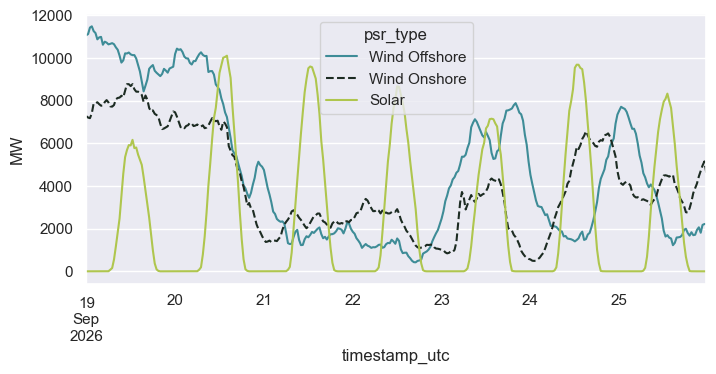
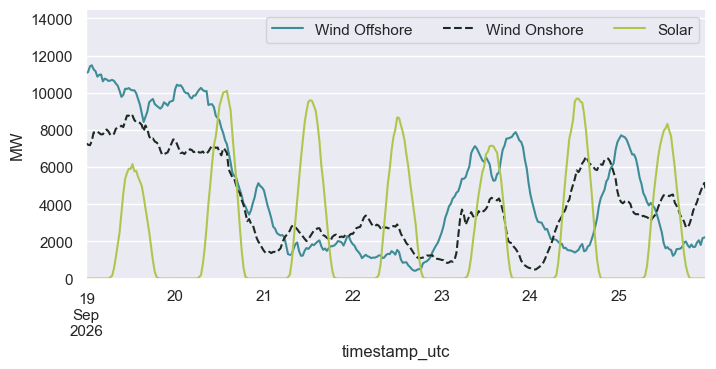
wip(p26): Elexon batch checkpoint, all agents idle

diff --git a/vault/elexon/windfor.md b/vault/elexon/windfor.md
@@ -88,7 +88,7 @@ page:
         df = data.elexon.query("windfor", "2026-09-20", "2026-09-22")
         for col in ["timestamp_utc", "published_at"]:
             df[col] = df[col].dt.tz_convert("UTC")
-        df = df[df.published_at.dt.strftime("%Y-%m-%d") == "2026-09-20"]
+        df = df[df.published_at.dt.day == 20]
       - df.sort_values(["timestamp_utc", "published_at"])[["timestamp_utc", "published_at", "latest_forecast_mw"]].head()
       - |
         wide = df.pivot(index="timestamp_utc", columns="published_at", values="latest_forecast_mw")
@@ -186,7 +186,7 @@ Captured live 2026-05-08 from the https://data.elexon.co.uk/bmrs/api/v1/datasets
 **Path pattern**: `{data_root}/silver/elexon/windfor/year=YYYY/month=MM/windfor_YYYYMMDD.parquet`
 **Transformer class**: `gridflow.silver.elexon.wind_forecast.WindForecastTransformer`
 **Pydantic schema**: `gridflow.schemas.elexon.ElexonWindForecast`
-**Dedup key**: `(timestamp_utc, published_at)`, keep last: this endpoint sends no settlement fields, so the `(settlement_date, settlement_period, published_at)` branch never applies (`silver/elexon/wind_forecast.py:160-165`). A silver file's date is its bronze publish-window date, so it holds the issues published that day.
+**Dedup key**: `(timestamp_utc, published_at)`, keep last: this endpoint sends no settlement fields, so the `(settlement_date, settlement_period, published_at)` branch never applies (`silver/elexon/wind_forecast.py:160-165`). A silver file's date is its bronze publish-window date, so it holds the issues published that day (`connectors/elexon/client.py:314` sets `data_date` to the window start; `wind_forecast.py:60-84` reads that one bronze day).
 **Point-in-time field**: `published_at`
 
 ### Silver schema

diff --git a/vault/elexon/agws.md b/vault/elexon/agws.md
@@ -90,14 +90,17 @@ page:
       Returns a pandas DataFrame from the DuckDB relation `silver_elexon_agws`, filtered on
       `settlement_date` with both ends included. Lineage columns are dropped.
     cells:
-      - df = data.elexon.query("agws", "2026-09-19", "2026-09-25")
+      - |
+        df = data.elexon.query("agws", "2026-09-19", "2026-09-25")
+        df = df.sort_values(["timestamp_utc", "psr_type"])
       - df[["settlement_date", "settlement_period", "psr_type", "generation_mw"]].head()
       - |
         wide = df.pivot_table(index="timestamp_utc", columns="psr_type",
                               values="generation_mw")
-        wide[["Wind Offshore", "Wind Onshore", "Solar"]].plot(
+        ax = wide[["Wind Offshore", "Wind Onshore", "Solar"]].plot(
             ylabel="MW", color=["#3E8C97", "#1C2B22", "#AFC64E"],
-            style=["-", "--", "-"], figsize=(8, 3.5))
+            style=["-", "--", "-"], ylim=(0, 14500), figsize=(8, 3.5))
+        ax.legend(ncols=3, loc="upper right");
     needs: 19 to 26 September 2026
     plot_alt: >-
       Line plot of Wind Offshore, Wind Onshore (dashed) and Solar generation_mw against
@@ -228,7 +231,7 @@ Captured live 2026-05-08 from the https://data.elexon.co.uk/bmrs/api/v1/datasets
     {
         "settlement_date": "2026-05-06",
         "settlement_period": 4,
-        "timestamp_utc": "2026-05-06T00:30:00+00:00",  # BST: period 1 starts 23:00 UTC the day before (utils/time.py:28-42)
+        "timestamp_utc": "2026-05-06T00:30:00+00:00",
         "psr_type": "Wind Onshore",
         "generation_mw": 1238.414,
         "business_type": "Wind generation",

diff --git a/vault/elexon/atl.md b/vault/elexon/atl.md
@@ -11,7 +11,7 @@ page:
     period, Elexon data item B0610.
   facts:
     vendor: Elexon BMRS, dataset ATL (B0610)
-    cadence: Half-hourly, one vendor document per settlement period
+    cadence: One vendor document per settlement period, each published on its own
     grain: One row per settlement period
   landscape: power
   what_it_is: >-
